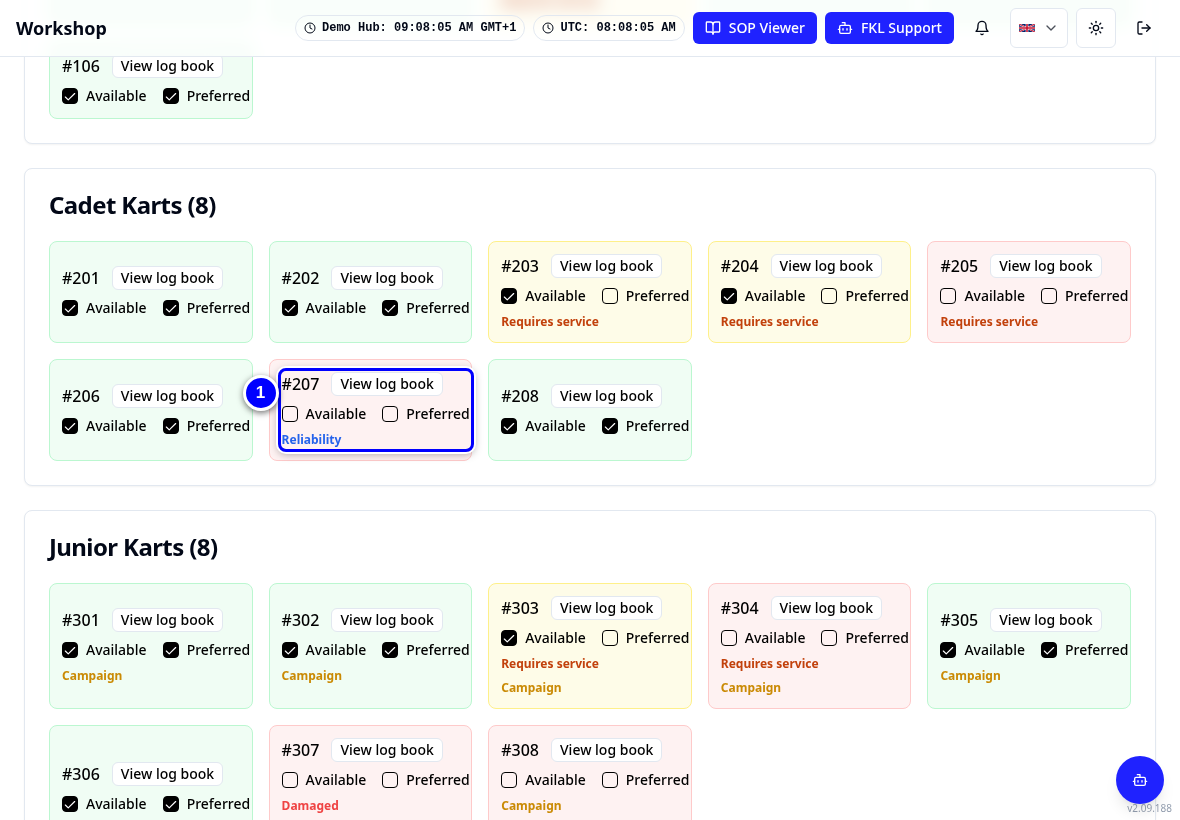
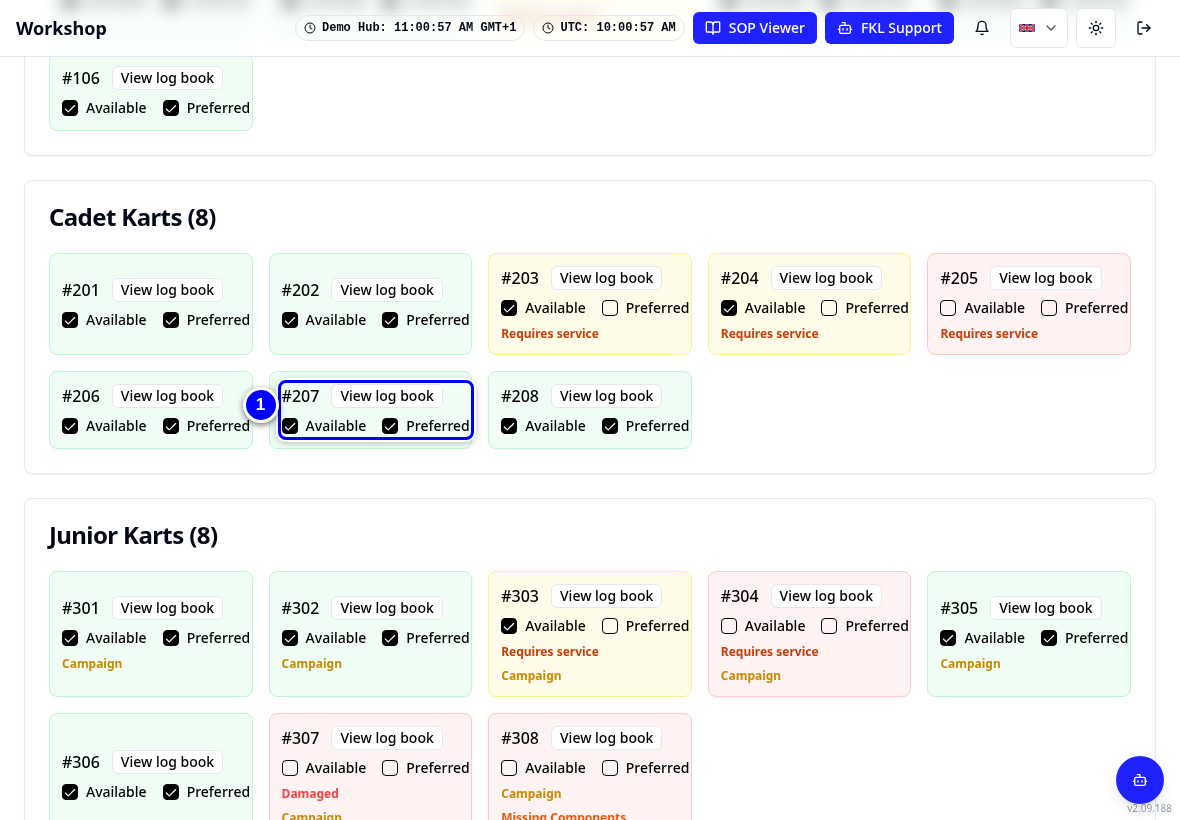
Re-record screenshots flagged by the new mechanic review

diff --git a/content/mechanic/service-turn.md b/content/mechanic/service-turn.md
@@ -103,10 +103,9 @@ captions:
 2. For a measured check, type the reading in the cell, for example tyre depth or the voltage of each battery.
 
     :::shot mech-svc-reading
-    caption: A measured check with tyre depth and battery voltage readings
+    caption: A measured check, Battery voltage, with both readings typed in and marked Pass
     url: /workshop/in-service
     steps:
-      - Type 3.5 in a tyre depth reading
       - Type 51.2 and 51.0 in the battery voltage readings
     callouts:
       - [1, "css=input[inputmode=decimal]", "Type the reading here"]
@@ -159,7 +158,7 @@ captions:
     steps:
       - Type brake pad in Search components
     callouts:
-      - [1, "text=Components replaced", "Every part you fitted"]
+      - [1, "placeholder=Search components…", "Type part of the name"]
       - [2, "text=Select", "Pick the part"]
     :::
 

diff --git a/docs/mechanic/reliability-ticket.md b/docs/mechanic/reliability-ticket.md
@@ -67,7 +67,7 @@ You need the **Reliability** permission to raise tickets. In this guide Casey Me
 
 3. Tap **Update** at the top of the ticket. When the ticket is resolved and its repair is completed, the kart leaves Repair Required.
 
-    ![Where to check Cadet 207 on the board (picture taken before the ticket was resolved: after it, the tile is no longer red)](../assets/img/mechanic/mech-ticket-closed.png){ loading=lazy }
+    ![Cadet 207 back to normal on the board after its ticket is resolved, with Available ticked and no Reliability tag](../assets/img/mechanic/mech-ticket-closed.png){ loading=lazy }
 
 !!! note "Remember"
     On your hub's switch-over day, close any stopping ticket whose fault is already fixed. Karts that were Repair Required in KART stay that way until their ticket or repair is closed, whatever the Workshop App said.

diff --git a/docs/mechanic/service-turn.md b/docs/mechanic/service-turn.md
@@ -45,7 +45,7 @@ A service (the Workshop App called it a "turn") is the check every kart gets aft
 
 2. For a measured check, type the reading in the cell, for example tyre depth or the voltage of each battery.
 
-    ![A measured check with tyre depth and battery voltage readings](../assets/img/mechanic/mech-svc-reading.png){ loading=lazy }
+    ![A measured check, Battery voltage, with both readings typed in and marked Pass](../assets/img/mechanic/mech-svc-reading.png){ loading=lazy }
 
 3. If a check cannot pass, set it to **Blocked**. KART asks **Why is this blocked?**
 

diff --git a/content/mechanic/reliability-ticket.md b/content/mechanic/reliability-ticket.md
@@ -162,7 +162,7 @@ captions:
 3. Tap **Update** at the top of the ticket. When the ticket is resolved and its repair is completed, the kart leaves Repair Required.
 
     :::shot mech-ticket-closed
-    caption: "Where to check Cadet 207 on the board (picture taken before the ticket was resolved: after it, the tile is no longer red)"
+    caption: Cadet 207 back to normal on the board after its ticket is resolved, with Available ticked and no Reliability tag
     url: /workshop
     state: After the 207 ticket is resolved
     steps:

diff --git a/content/mechanic/report-a-problem.md b/content/mechanic/report-a-problem.md
@@ -142,7 +142,7 @@ captions:
       - Show the note under the question
     callouts:
       - [1, "text=Would this stop the kart from being used?", "Answer honestly"]
-      - [2, "text=Recorded for the workshop", "Only a reliability ticket stops it"]
+      - [2, "text=Recorded for the workshop", "An incident never stops the kart"]
     :::
 
 10. Tap **Add finding** if you found something else. Then tap **Report problem**.
